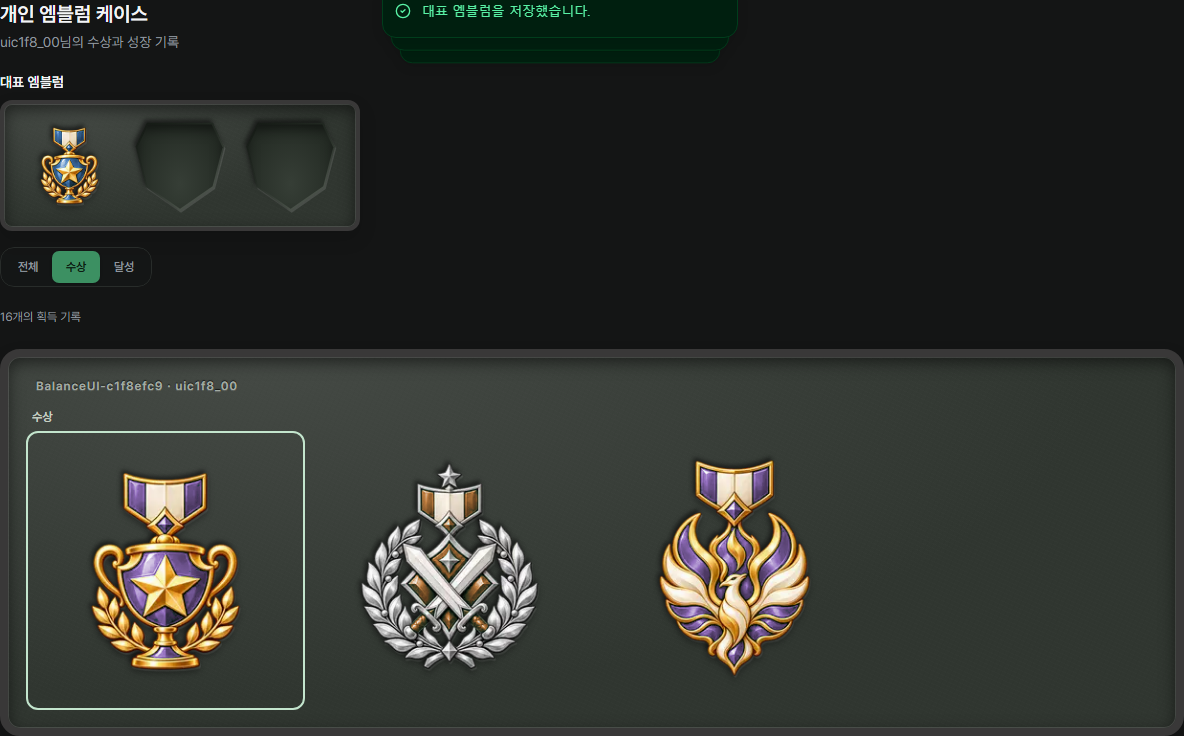
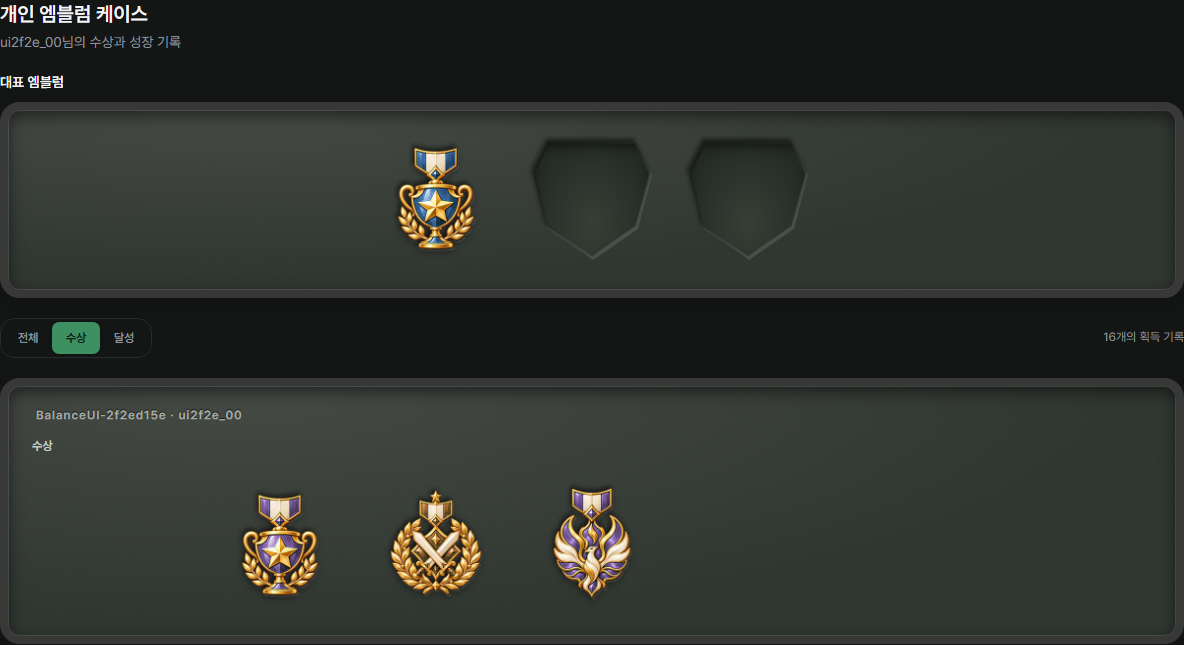
docs(emblems): record responsive sizing and spacing checks

diff --git a/docs/TODO_Phase2.md b/docs/TODO_Phase2.md
@@ -11,6 +11,7 @@
 
 ## 2026-10-23 개인 엠블럼 공통 케이스
 
+- 반응형 정렬: 대표3칸과 목록의 셀·이미지 크기, 케이스 폭·테두리·패딩을 통일했다. 진열 영역760px 미만3열/이상5열, 셀 최대136px이며 분류·획득 개수를 한 행에 배치했다. 슬롯 크기에 맞춘 최소 높이로 하단 여백을 줄였다. 집중2건과320/390/568/640/685/768/1024/1304px에서 분류3종의 크기 일치(1px 미만)·프레임 정렬·가로 넘침·저장/상세/권한을 확인했고 변경 ESLint가 통과했다([568px](design/personal-emblems/production-v1/grid-568.png)·[685px](design/personal-emblems/production-v1/grid-685.png)).
 - 진열·분류: 전체/수상/달성으로 분류하고 날짜 필터를 제거했다. 수상은 종류별 보유 최고 등급(금→은→동) 중 최신1개를 표시하며 표제는 `수상`이다. 팝업에는 전체 월간·연간 이력과 전체/금/은/동 필터를 제공한다. 페이지 상단의 대표3칸은 지정·해제를 즉시 반영하고 각 대표의 상세를 연다. 등급별 전환·과거 수상 저장·대표 진열 갱신/재열기·초점 복귀·320px 터치와 기존 기간/달성/공개 권한을 집중9건·변경 ESLint·타입으로 검증했다([진열](design/personal-emblems/production-v1/award-case-desktop.png)·[이력 PC](design/personal-emblems/production-v1/award-history-desktop.png)·[이력 모바일](design/personal-emblems/production-v1/award-history-mobile.png)). 전체 빌드는 반복하지 않았다.
 - 프로필의 활성 게임·클랜별 영역과 개인 기록 배너가 같은 이미지 케이스를 연다. 수상형30장·달성형20장과 월12색/연6색·날짜를 적용했다. 전체/수상/달성 분류, 계열별 최고 달성 한 슬롯, 조건·진척·금은동·수상 기간과 관련4단계 상세를 제공한다.
 - 본인의 획득 엠블럼 최대3개를 클랜별로 저장하고 두 화면에서 공유한다. 명시적 빈 선택을 유지하며 달성 단계가 오르면 대표도 최고 단계로 바뀐다. 새 테이블은 본인·현재 소속의 읽기만 허용하고 서버가 소속·공개 범위·획득 여부를 검증한 뒤 저장한다. 멤버에게 비공개인 전적/예측 계열은 달성형 응답에서도 제외한다. 조회 거부 시 이전 기록·초기 표시와 진행 중 저장 응답을 폐기한다.
@@ -18,7 +19,7 @@
 - 후속 보관: 월/연 마감과 해당 기간 진행 중 정규 내전 종료 뒤 전체 부문 상위3을 한 번 확정한다. 빈 기간도 마커로 확정하고 정정·삭제·자격 설정 변경 후 수상을 보존한다. 조회 및 기존 분 단위 워커/cron이 미확정 기간을 보완한다. 통계 요약이나 자격 기준이 계산 중 바뀌면 확정을 보류하고 재시도하며 진행 중 기간은 대기열에서도 제외한다.
 - 최초 달성일은 정규화된 유효 경기·정규 회차 최초 출전·예측 적중의 기준 통과 시각으로 복원하고 통계 갱신과 함께 자동 저장한다. 예측은 정산→종료→과거 라운드 시작 시각 순이다. 달성 후 원본 정정·삭제나 동일 계정 탈퇴·재가입에도 획득과 날짜·대표를 유지한다. 계정·클랜 삭제 시 연결 이력은 정리한다. 보관 테이블의 직접 읽기/쓰기를 차단하고 기존 공개 정책을 통과한 서버 응답만 허용한다.
 - 표시: 고유 이름을 제거하고 목록·상세·접근성 설명·미리보기에 `10승 달성`, `월간 승률 1위` 같은 조건/수상 내용만 사용한다. 달성일은 한국 시간 날짜다. 자동 대표에서 연간과 12월 수상은 같은 마감 시점으로 정렬한다. 기존 QA 명단·내전·코인은 보존했으며 운영 DB·배포는 보류한다.
-- 케이스 페이지: 프로필·개인 기록의 대표3칸/보기 링크가 `/games/{gameSlug}/clan/{clanId}/emblems?player={userId}`로 연결된다. 클랜 배지와 같은 분류·명판·펠트 진열·데스크톱4열/모바일2열·핀별 상세 창을 사용하며 대표 지정과 관련4단계도 상세 안에 모은다.
+- 케이스 페이지: 프로필·개인 기록의 대표3칸/보기 링크가 `/games/{gameSlug}/clan/{clanId}/emblems?player={userId}`로 연결된다. 클랜 배지와 같은 명판·펠트 진열·핀별 상세 창을 사용하며 개인 페이지의 그리드는 위 반응형 정렬을 따른다. 대표 지정과 관련4단계도 상세 안에 모은다.
 - 재조회는 캐시하지 않는 GET을 사용하고 이동 시 요청을 취소한다. 사용자·대상이 바뀐 응답을 폐기하며, 공개 권한 철회 시 초기 표시·상세·대표를 즉시 비운다.
 - 후속 검증: QA 이력 마이그레이션6개·생성 타입과 기존 데이터의 마감 수상 보관을 반영했다. 격리 이력 DB7건(상위 포함), 관련 Playwright11건(계열 규칙5·기간/요약/수상/보관/케이스/프로필6), 변경 ESLint·타입·최종 QA 설정 프로덕션 빌드가 통과했다. 기간 전체의 원자적 확정·동시 요청·빈 기간·진행 중 내전·오래된 통계/자격 설정의 확정 보류, 최초 날짜5계열·정정/삭제/재가입 보존, GET400/401/403·권한 철회 후 재시도·320/390px·포커스 복귀를 확인했다. 보안 advisor 신규 WARN/ERROR는 없다. [상세 PC](design/personal-emblems/production-v1/case-detail-desktop.png)·[상세 모바일](design/personal-emblems/production-v1/case-detail-mobile.png) 화면을 추가했다.
 

diff --git a/docs/01-plan/pages/14-Profile-Customization.md b/docs/01-plan/pages/14-Profile-Customization.md
@@ -9,6 +9,7 @@
 - 수상형·달성형의 투명 이미지50장을 전체/수상/달성으로 분류하고 날짜 필터는 두지 않는다. 날짜와 월별12색·연도별6색 순환을 함께 표시하고, 달성형은 계열별 최고 획득 단계1개를 진열하며 상세에서4단계·조건·진척을 확인한다. 고유 엠블럼 이름은 화면·접근성 이름에서 제거하고 `10승 달성`, `월간 승률 1위` 같은 설명과 수상 기간·달성일을 표시한다.
 - 본인만 대표 엠블럼을 최대 3개 저장하며 같은 클랜의 개인 기록 배너와 공유한다. 기존 네임카드의 `엠블럼` 프리셋 및 대표 뱃지 5개를 고르는 `뱃지 케이스`와는 별도 기능이다.
 - 수상형은 종류별로 금→은→동의 보유 최고 등급 중 최신1개를 진열한다. 팝업에는 전체 월간·연간 수상을 최신순으로 표시하고 금/은/동 필터와 과거 수상의 날짜·순위 확인·대표 지정을 제공한다. 전용 페이지 상단에도 대표3칸을 표시해 지정·해제 결과를 바로 확인하고 각 대표의 상세를 열 수 있다.
+- 전용 페이지의 대표 진열·전체 목록은 같은 셀·이미지 크기와 케이스 폭·테두리·패딩을 공유한다. 좁은 진열 영역은3열, 760px 이상은5열이며 대표3칸은 같은 셀 크기로 중앙 정렬한다. 분류·획득 개수를 한 행에 모으고 엠블럼 크기에 맞춰 목록의 최소 높이·빈 상태를 조정한다.
 - 수상은 월·연 기간 마감과 해당 기간에 개설된 진행 중 정규 내전의 종료를 모두 충족한 뒤, 해당 기간 전체 대상·부문의 1~3위를 처음 확정해 영구 보관한다. 이후 기록 정정·삭제나 등재 기준·공개 설정 변경으로 수상 결과를 덮어쓰지 않는다.
 - 최초 달성일은 정정이 반영된 정규화 기록에서 각 단계 조건을 처음 통과한 시각으로 복원하며 새 기록을 쓸 때 자동으로 달성 이력을 추가한다. 원본 정정·삭제 뒤에도 최초 달성일을 보존하고 한국 시간의 날짜로 표시한다. 같은 계정의 탈퇴·재가입은 수상·달성 이력을 유지하며 계정 삭제·클랜 삭제 시 해당 이력을 연쇄 삭제한다.
 - 일반 멤버는 기존 개인 기록 공개 설정을 따른다. 경기 전적 비공개 시 참여·출전·승리·연승 달성형, 예측 적중 비공개 시 예측 달성형을 케이스·대표에서 제외한다. 수상형도 부문 공개 권한에 따라 표시를 숨기며 보관된 기록은 유지한다. 상세 기준은 [클랜 통계의 엠블럼 개편](10-Clan-Stats.md#4-개인-기록)을 따른다.

diff --git a/docs/design/personal-emblems/production-v1/README.md b/docs/design/personal-emblems/production-v1/README.md
@@ -73,7 +73,7 @@ PNG에는 날짜·번호·이름을 새기지 않는다. 기본 녹색 원본 50
 
 ## 앱의 공통 케이스 · 2026-10-23
 
-프로필에서는 활성 게임·클랜별로, 개인 기록에서는 선택 멤버의 전용 케이스 페이지를 연다. 대표3개는 클랜별로 저장해 두 화면과 케이스 페이지 상단에 공유하며 지정·해제 결과를 즉시 반영한다. 진열된 대표를 누르면 상세를 다시 연다. 클랜 배지 케이스와 같은 상단 분류·명판·펠트 진열·데스크톱4열/모바일2열을 사용한다. 분류는 전체/수상/달성이며 날짜 필터를 제거했다. 날짜·에나멜 색상과 달성형 최고 단계 진열·관련4단계 상세를 제공한다. 미획득은 빈 홈과 미리보기로 구분한다.
+프로필에서는 활성 게임·클랜별로, 개인 기록에서는 선택 멤버의 전용 케이스 페이지를 연다. 대표3개는 클랜별로 저장해 두 화면과 케이스 페이지 상단에 공유하며 지정·해제 결과를 즉시 반영한다. 진열된 대표를 누르면 상세를 다시 연다. 클랜 배지와 같은 명판·펠트 표면을 사용하며 개인 케이스 페이지의 대표·목록은 같은 이미지 크기와 테두리·좌우 여백을 공유한다. 진열 영역760px 미만은3열, 이상은5열이며 대표는3칸이다. 이미지 셀은 최대136px로 제한하고 분류·획득 개수는 한 행에 모은다. 분류는 전체/수상/달성이며 날짜·에나멜 색상과 달성형 최고 단계 진열·관련4단계 상세를 제공한다. 미획득은 빈 홈과 미리보기로 구분한다.
 
 고유 엠블럼 이름을 제거하고 `10승 달성`, `월간 승률 1위`처럼 설명만 표시한다. 수상 기간과 한국 시간 기준 최초 달성일을 함께 확인한다.
 
@@ -82,6 +82,8 @@ PNG에는 날짜·번호·이름을 새기지 않는다. 기본 녹색 원본 50
 ![종류별 최신 수상 진열](award-case-desktop.png)
 
 [대표 진열·수상 모바일](award-case-mobile.png) · [전체 수상 이력 PC](award-history-desktop.png) · [등급 필터·모바일](award-history-mobile.png)
+
+[568px 크기·여백 확인](grid-568.png) · [685px 크기·여백 확인](grid-685.png): 대표와 목록의 슬롯·실제 이미지 크기, 두 프레임의 시작점·너비를320/390/568/640/685/768/1024/1304px에서 확인했다.
 
 ![개인 엠블럼 케이스 실제 QA 화면](case-desktop.png)
 

diff --git a/docs/TODO_LOG.md b/docs/TODO_LOG.md
@@ -1,5 +1,9 @@
 # 구현 진행도 — 작업 세션 로그
 
+### 2026-10-23 — 개인 엠블럼 크기·그리드·여백 통일
+
+- 대표 진열과 목록을 같은 셀·이미지 크기와 프레임으로 맞추고 분류·획득 개수를 한 행으로 모았다. 8개 폭에서 전체/수상/달성의 실제 크기·정렬·넘침과 기존 조작을 집중2건·린트로 확인했다([화면·기준](design/personal-emblems/production-v1/README.md)).
+
 ### 2026-10-23 — 엠블럼 분류·등급 필터와 대표 진열
 
 - 전체/수상/달성 분류로 단순화하고 날짜 필터를 제거했다. 종류별 보유 최고 등급 중 최신 수상을 표시하며 팝업 이력은 금/은/동으로 거른다. 케이스 상단 대표3칸에 지정·해제를 즉시 반영하고 대표 상세를 다시 연다([규칙·화면](design/personal-emblems/production-v1/README.md)). 집중9건·변경 린트·타입과 모바일 터치를 검증했다.
